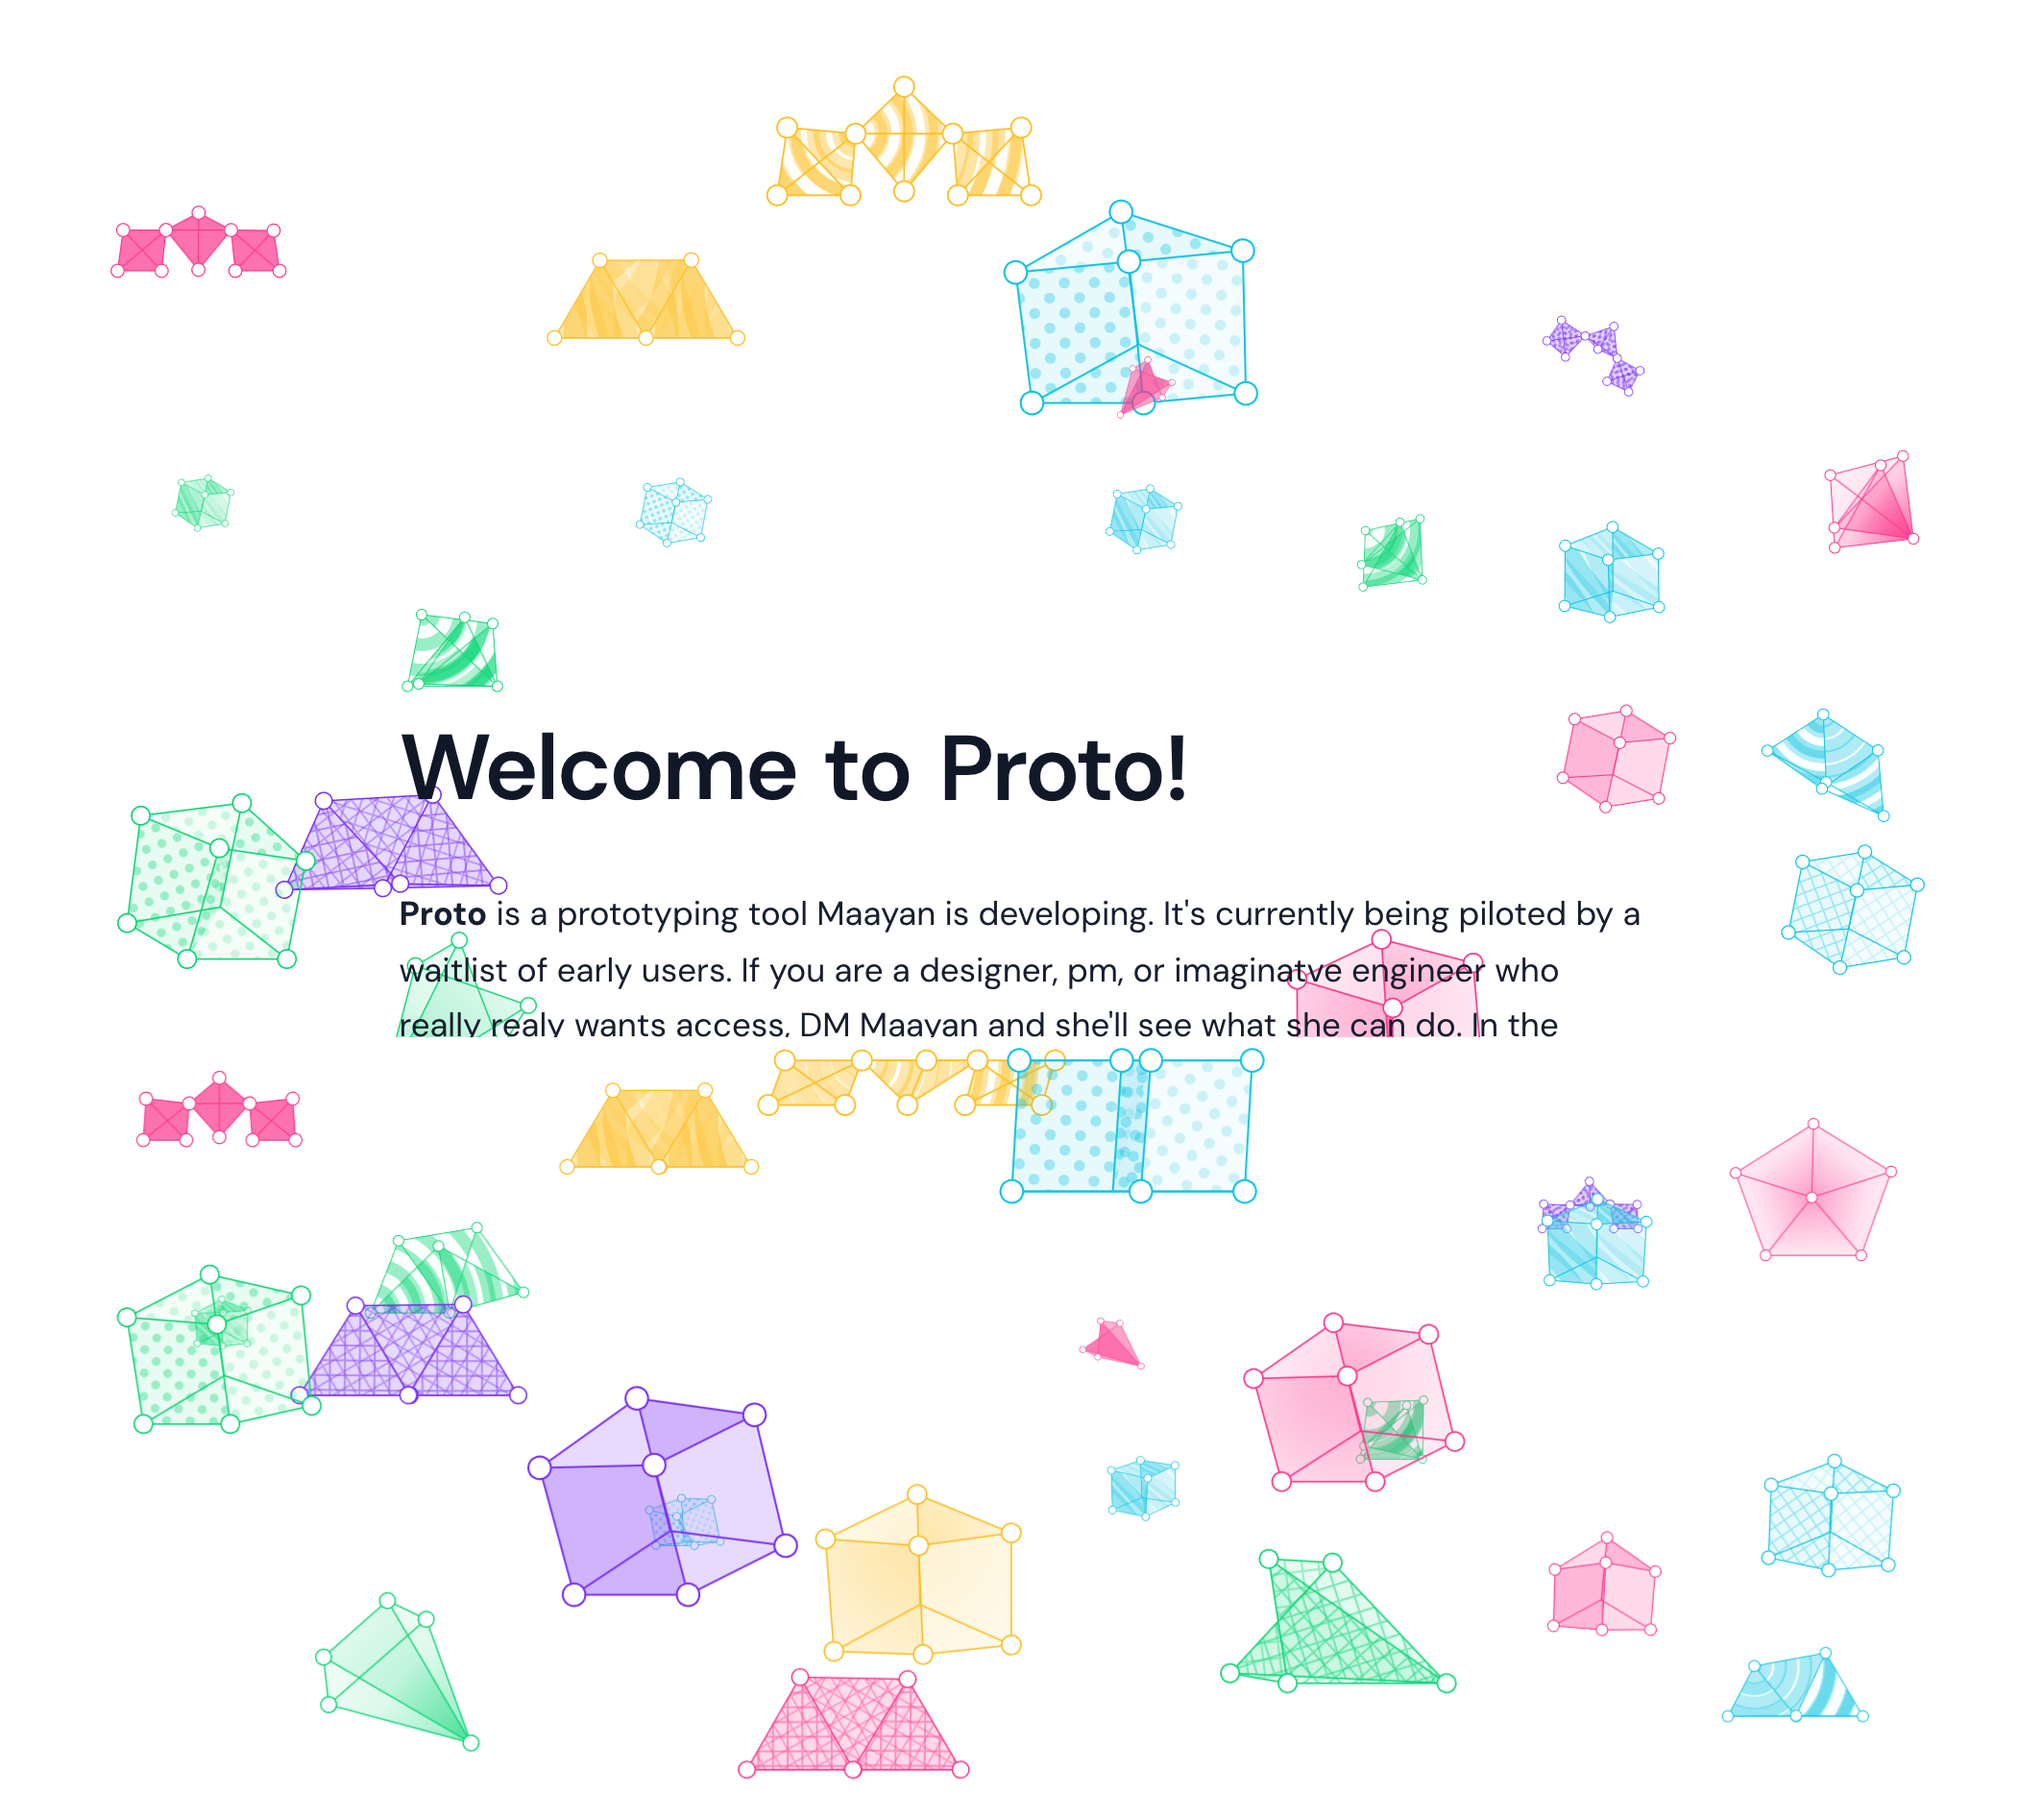
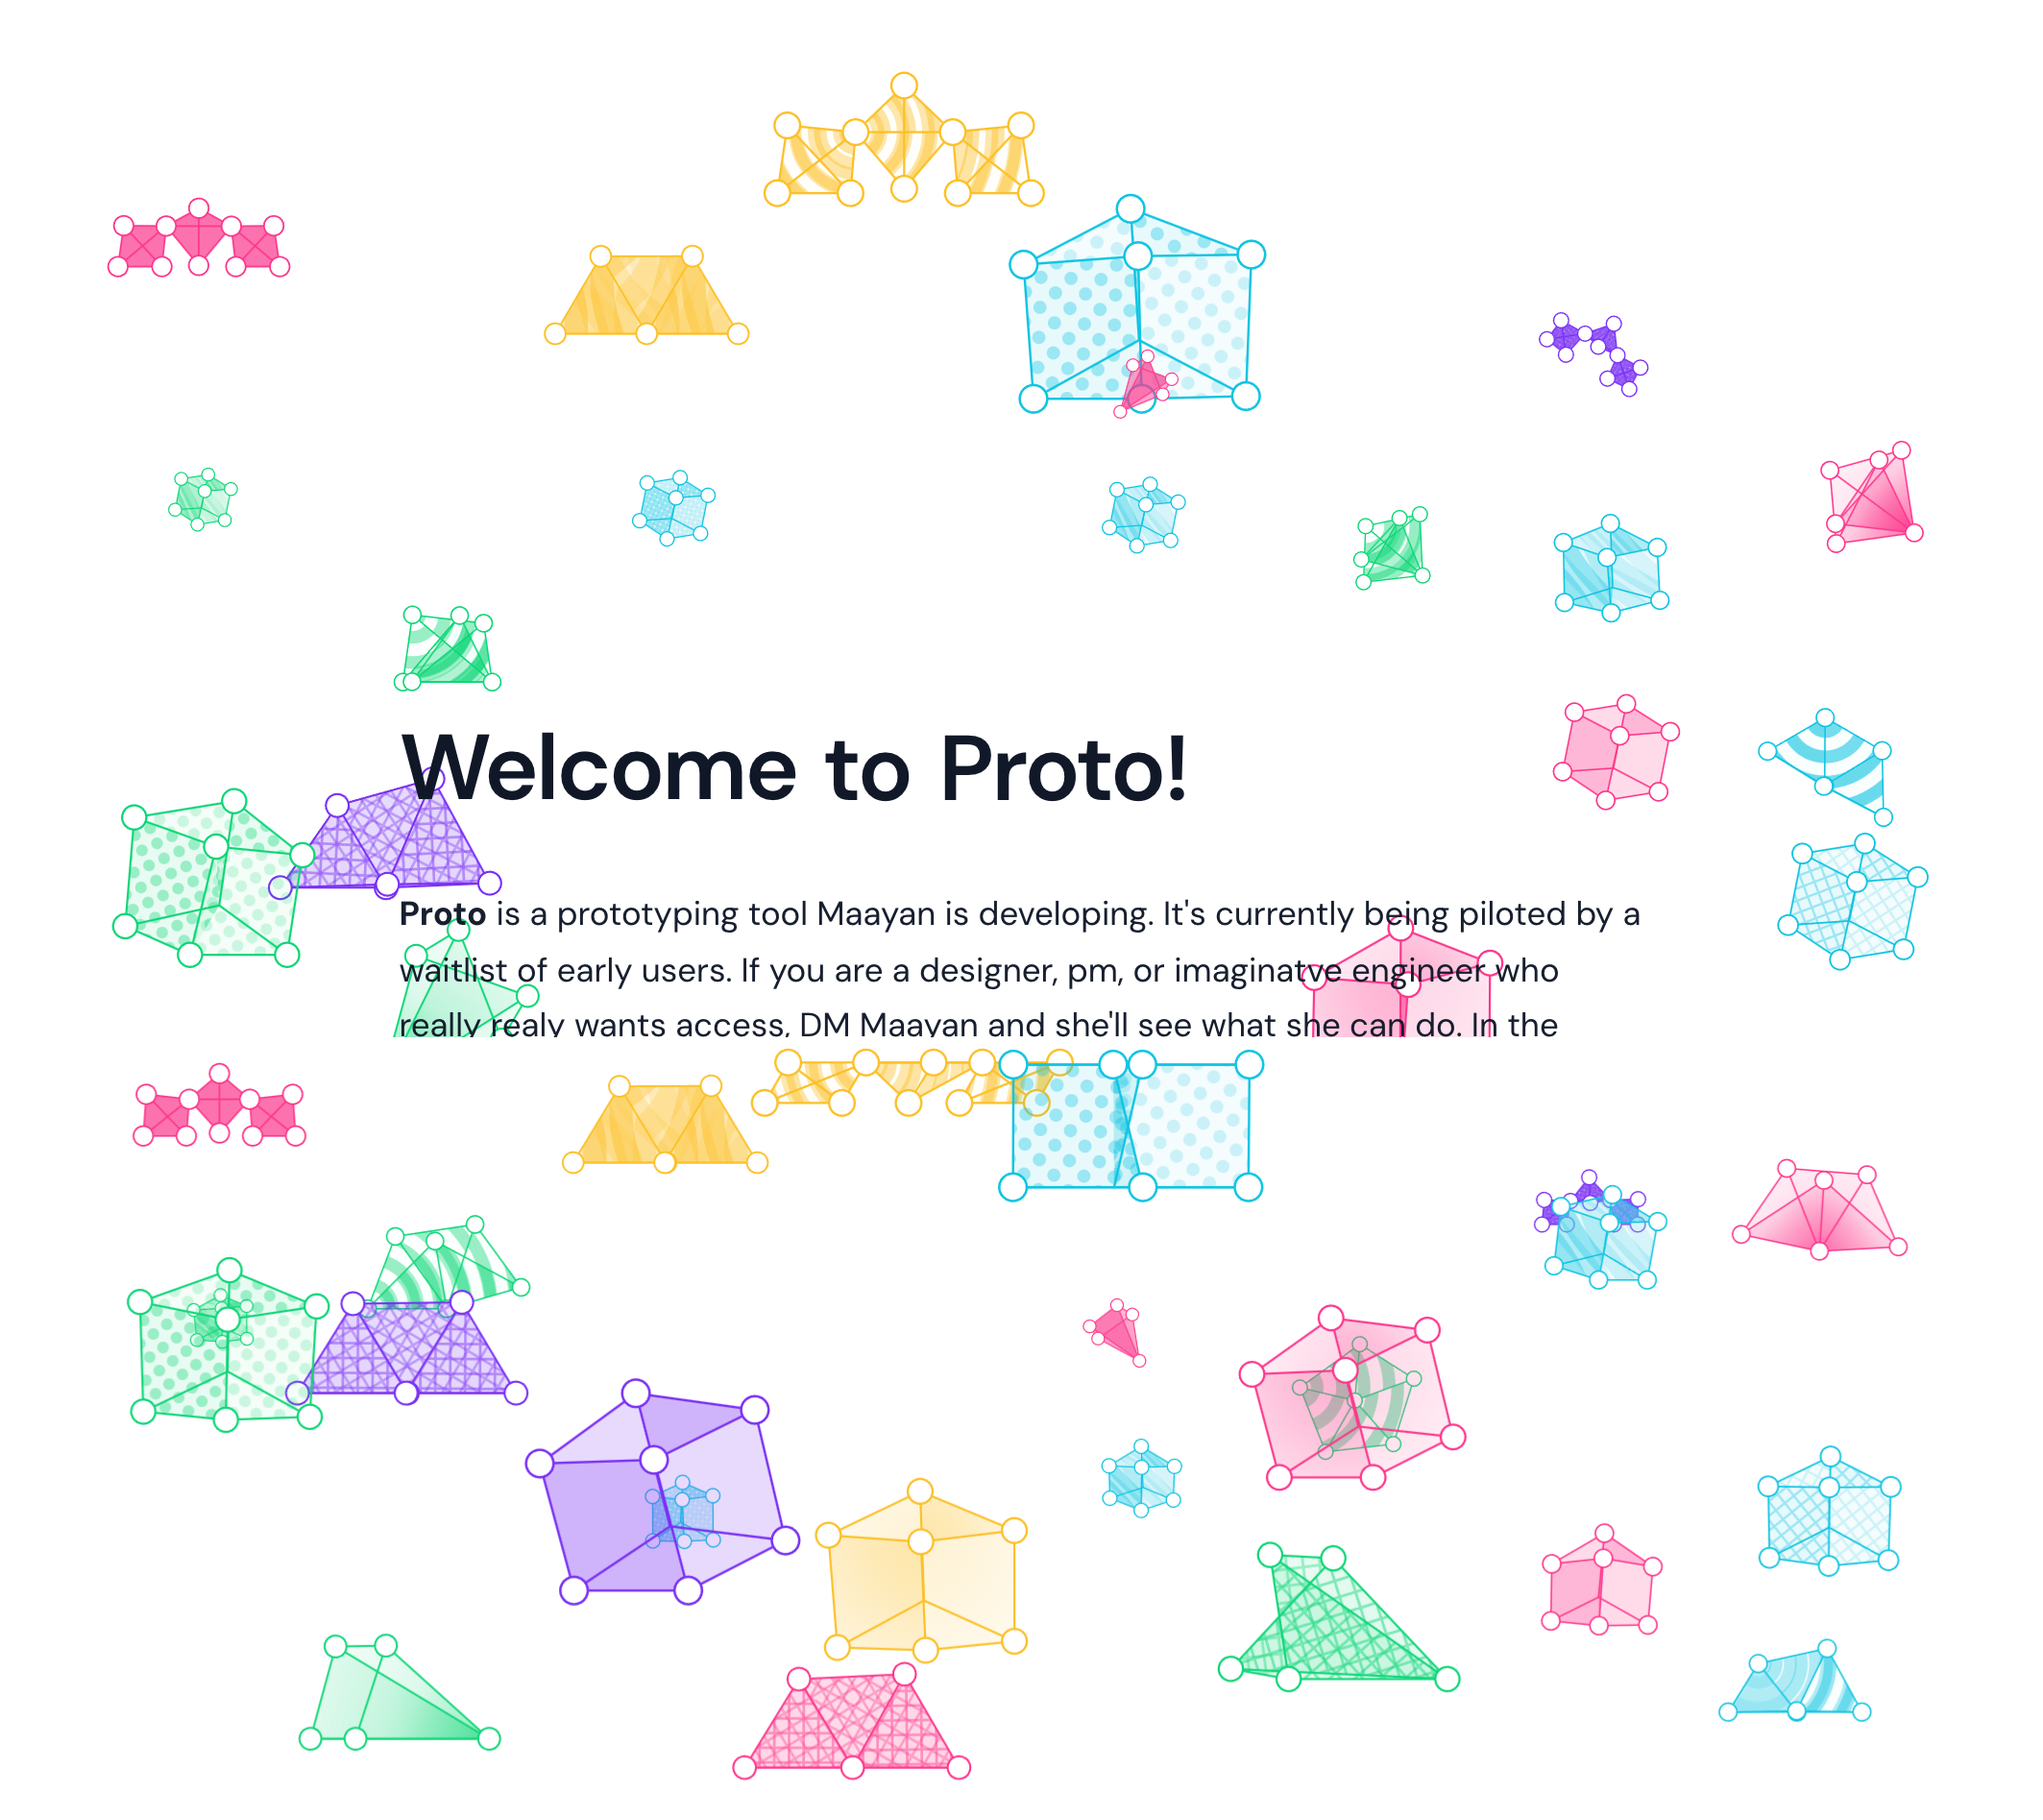
fix build error

diff --git a/src/prototypes/proto-shapes/shape-textures.ts b/src/prototypes/proto-shapes/shape-textures.ts
@@ -21,28 +21,48 @@ export type TextureEmanationCorner =
 export type ShapeTextureColor = [number, number, number];
 
 /**
- * How much dot/line metrics outpace shape shrink (0 = locked ratio).
+ * How much spring strokes outpace shape shrink (0 = locked ratio).
  * Uses a continuous power curve — no cap as shapes get smaller.
  */
-export const SHAPE_DETAIL_INVERSE_EXPONENT = 0.15;
+export const SHAPE_STROKE_INVERSE_EXPONENT = 0.48;
 
 /** Shape size relative to the partner-page reference layout. */
 export function getShapeNormalizedRenderScale(physicsScale: number) {
   return physicsScale / REFERENCE_PROTOTYPE_SHAPE_SCALE;
 }
 
-/**
- * Stroke and dot scale — shrinks slower than the shape so smaller shapes keep
- * slightly chunkier dots and spring lines.
- */
-export function getShapeDetailRenderScale(normalizedShapeSize: number) {
+function getShapeMetricRenderScale(
+  normalizedShapeSize: number,
+  inverseExponent: number,
+) {
   const safe = Math.max(normalizedShapeSize, 1e-3);
-  return Math.pow(safe, 1 - SHAPE_DETAIL_INVERSE_EXPONENT);
+  return Math.pow(safe, 1 - inverseExponent);
 }
 
-/** Scale spring strokes and dot metrics from normalized shape size. */
+/**
+ * Spring stroke scale — shrinks slower than the shape so smaller shapes keep
+ * slightly chunkier spring lines.
+ */
+export function getShapeStrokeRenderScale(normalizedShapeSize: number) {
+  return getShapeMetricRenderScale(
+    normalizedShapeSize,
+    SHAPE_STROKE_INVERSE_EXPONENT,
+  );
+}
+
+/** Dot metrics scale linearly with shape size. */
+export function getShapeDotRenderScale(normalizedShapeSize: number) {
+  return getShapeMetricRenderScale(normalizedShapeSize, 0);
+}
+
+/** Scale spring strokes from normalized shape size. */
 export function withShapeRenderScale(value: number, normalizedShapeSize = 1) {
-  return value * getShapeDetailRenderScale(normalizedShapeSize);
+  return value * getShapeStrokeRenderScale(normalizedShapeSize);
+}
+
+/** Scale handle-dot metrics from normalized shape size. */
+export function withShapeDotRenderScale(value: number, normalizedShapeSize = 1) {
+  return value * getShapeDotRenderScale(normalizedShapeSize);
 }
 
 /** Spring edge strokes on canvas-drawn proto shapes. */
@@ -93,9 +113,9 @@ type PrototypeShapeLayoutOptions = {
  * prototype.
  *
  * `renderScale` is the linear shape size relative to the partner-page reference
- * and drives texture pattern density. Spring strokes, dot outlines, and dot
- * radii use {@link normalizedRenderScale} with {@link getShapeDetailRenderScale}
- * so they shrink slower than the shape and stay legible when small.
+ * and drives texture pattern density. Spring strokes use
+ * {@link getShapeStrokeRenderScale}; handle dots scale linearly via
+ * {@link getShapeDotRenderScale}.
  */
 export function getPrototypeShapeLayoutScales({
   layoutShapeScale,
@@ -118,14 +138,14 @@ export function getPrototypeShapeLayoutScales({
 }
 
 export function getShapeHandleDotRadius(dotScale = 1, normalizedShapeSize = 1) {
-  return withShapeRenderScale(
+  return withShapeDotRenderScale(
     SHAPE_HANDLE_DOT_RADIUS * dotScale,
     normalizedShapeSize,
   );
 }
 
 export function getShapeHandleDotOutlineWidth(normalizedShapeSize = 1) {
-  return withShapeRenderScale(
+  return withShapeDotRenderScale(
     SHAPE_DOT_OUTLINE_WIDTH * SHAPE_DOT_SIZE_SCALE,
     normalizedShapeSize,
   );
@@ -772,9 +792,7 @@ export function drawTextureLocal(
     ctx.fillStyle = rgb(cr, cg, cb, 235);
     const gap = (compact ? 11 : 18) * renderScale;
     const dotRadius =
-      (compact ? 2.5 : 4) *
-      SHAPE_DOT_SIZE_SCALE *
-      getShapeDetailRenderScale(renderScale);
+      (compact ? 2.5 : 4) * SHAPE_DOT_SIZE_SCALE * renderScale;
     for (let x = -cover; x <= cover; x += gap) {
       for (let y = -cover; y <= cover; y += gap) {
         ctx.beginPath();
@@ -787,7 +805,7 @@ export function drawTextureLocal(
     ctx.fillRect(-cover, -cover, cover * 2, cover * 2);
     ctx.strokeStyle = rgb(cr, cg, cb, 235);
     ctx.lineWidth =
-      (compact ? 1.25 : 2) * getShapeDetailRenderScale(renderScale);
+      (compact ? 1.25 : 2) * getShapeStrokeRenderScale(renderScale);
     const gap = (compact ? 11 : 18) * renderScale;
     ctx.beginPath();
     for (let x = -cover; x <= cover; x += gap) {

diff --git a/src/prototypes/proto-partner-page/_components/submit-modal-content.ts b/src/prototypes/proto-partner-page/_components/submit-modal-content.ts
@@ -45,8 +45,20 @@ export type SubmitModalCardTheme = {
   titleClass: string;
 };
 
+/**
+ * Variants rendered as a themed pattern card. The remaining variants are either
+ * bespoke layouts (see `SubmitModalLayoutVariant`) or handled ad hoc
+ * (`plain-header`, `proto-tint`), so they are intentionally excluded here.
+ */
+export type SubmitModalCardThemeVariant =
+  | "wireframe-grid"
+  | "block-texture"
+  | "fluid-waves"
+  | "mosaic-pixels"
+  | "vertical-ridges";
+
 export const SUBMIT_MODAL_CARD_THEMES: Record<
-  Exclude<SubmitModalVariant, "plain-header" | "proto-tint">,
+  SubmitModalCardThemeVariant,
   SubmitModalCardTheme
 > = {
   "vertical-ridges": {

diff --git a/src/prototypes/proto-partner-page/_components/submit-shape-modal-block.tsx b/src/prototypes/proto-partner-page/_components/submit-shape-modal-block.tsx
@@ -13,6 +13,7 @@ import {
 import {
   SUBMIT_MODAL_CARD_THEMES,
   SUBMIT_MODAL_TITLE,
+  type SubmitModalCardThemeVariant,
   type SubmitModalVariant,
 } from "./submit-modal-content";
 import type { ProtoShapeSelection } from "./proto-shape-customizer-block";
@@ -32,7 +33,7 @@ function SubmitModalCardHeader({
   selection,
   title,
 }: {
-  variant: SubmitModalVariant;
+  variant: SubmitModalCardThemeVariant | "plain-header" | "proto-tint";
   selection: ProtoShapeSelection;
   title: string;
 }) {
